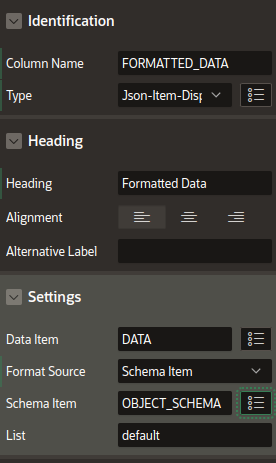
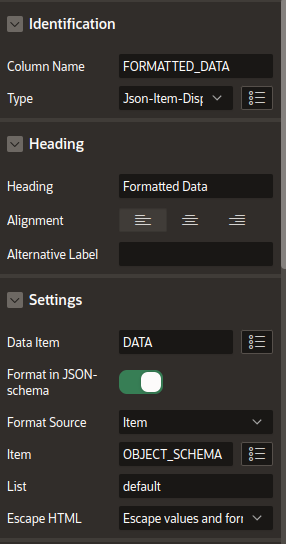
rel-0.4.0: updated docu

diff --git a/docu/docu.md b/docu/docu.md
@@ -74,7 +74,7 @@ So **#$.lastname#** will access the attribute **lastname** in the JSON-data.
   ...
 }
 ```
-All JSON-path-expressions mustb return a single value (no arrays.)
+All JSON-path-expressions must return a single value (no an array).
 Even more complex expressions are available like **#$.address.country#** to access the country inside the address-subobject
 
 For details of JSON-path-exrepssins see (https://goessner.net/articles/JsonPath/).
@@ -92,18 +92,18 @@ The JSON-item-display-plugin can be used as
 
 ### Plugin as item on a page
 When using the plugin as a page-item the source of the output-format could be
-- a fixed fiormat as a string
-- a fixed JSON-schema
-- a JSON-schema located in another page-item
-- a JSON-schema retrieved by an SQL-query
+- part of a JSON-schema or a plain format
+- fixed in the page-desiger configuration
+- located in another page-item
+- retrieved by a SQL-query
 
 ### Plugin as column in an interactive-grid
 When using the plugin as a column of an interactive grid column the source of the output-format could be
-- a fixed fiormat as a string
-- a fixed JSON-schema
-- a JSON-schema located in another (hidden) grid-column
+- part of a JSON-schema or a plain format
+- fixed in the page-desiger configuration
+- located in another (hidden) grid-column
 
-When it is not included in the base table for the grid a SQL-query like
+When the format/JSON-schema-column is not included in the base table for the grid a SQL-query like
 ```SQL
   SELECT o.*, ot.object_schema
   FROM object o
@@ -113,15 +113,10 @@ When it is not included in the base table for the grid a SQL-query like
 is required.
  
 ### Configuration in GUI
-When configuring the JSON-item-display-plugin, the output format can be defined by
-- **Fixed format**: The format string, configured in Page-designer 
-- **Static schema**: A fixed schema, configured in Page-designer
-- **SQL-Query**: A schema, selected by a SQL-query
-- **Page-item**: The schema is located in a page item or an interactive-grid-column. 
 
 #### In an Interactive-Grid
 
-1. Configure the Datasource for the interactive-grid with a coulmn containing the JSON-schema of the data-column (here **object_schema**)
+1. Configure the Datasource for the interactive-grid with a column containing the JSON-schema of the data-column (here **object_schema**)
 
 ![config](config-01.png)
 
@@ -133,21 +128,16 @@ When configuring the JSON-item-display-plugin, the output format can be defined 
 
 ![config](config-03.png)
 
-4. Set the Source of the column to "none".
-
-![config](config-05.png)
-
-4. Configure the **Data Item** (column containing the JSON-data) and the **Schema Item** (Column contasining the JSON-schema) and the **list** (key in **apex.display** of the JSON-schema
+4. Configure the **Data Item** (column containing the JSON-data), whether the format is part of a JSON-schema and the **Schema Item** (Column contasining the JSON-schema) and the **list** (key in **apex.display** of the JSON-schema).
+When the format is not pat of a JSON-schema, the "List" is not required.
 
 ![config](config-04.png)
 
-6. Alternative use a fixed output-format for all rows of the interactive-grid
-
-![config](config-06.png)
-
-1. Alternative use a fixed JSON-schema containing the output-format, which is then used for all rows of the interactive-grid (here **default**)
+Alternative use a fixed JSON-schema containing the output-format, which is then used for all rows of the interactive-grid (here **default**)
 
 ![config](config-07.png)
+
+It is also possible to use a "simple format string" here (switch off **Format in JSON-schema**).
 
 Now the interactive Grid could be used and should display a report similar to 
 
@@ -161,7 +151,7 @@ containing a column **Fomatted Data**
 
 ![config](config-09.png)
 
-2. The configuration is similar to the interactive-grid, but there is the additional option **SQL-query for the source of the JSON-schema. The SQL-query must return a single column and a single row containing the JSON-schema .
+2. The configuration is similar to the interactive-grid, but there is the additional option **SQL-query** for the source of the JSON-schema/format. The SQL-query must return a single column and a single row containing the JSON-schema/format .
 
 ![config](config-08.png)
 
@@ -173,4 +163,4 @@ containing a column **Fomatted Data**
 
 ## Known issues
 - The configuration for a interactive-grid-column contains "SQL-Query" in the Soruce-selection, this setting is ignored.
-- **JSON-item-display-columns do not appear in exports** (csv, pdf, ...) of the interactive-grid. The reason is, that the data for the columns in an export must be returned by a generated SQL-query. But the JSON-item-display-column is a column calculated in Javascript (in the model with a **calcValue**-function depending on the dasta and the schema). 
+- **JSON-item-display-columns do not appear in exports** (csv, pdf, ...) of the interactive-grid. The reason is, that the data for the columns in an export must be returned by a generated SQL-query. But the JSON-item-display-column is a column calculated in Javascript (in the model with a **calcValue**-function depending on the dasta and the schema). This is the only way to access columns in the same row (here data and JSON-schema).
